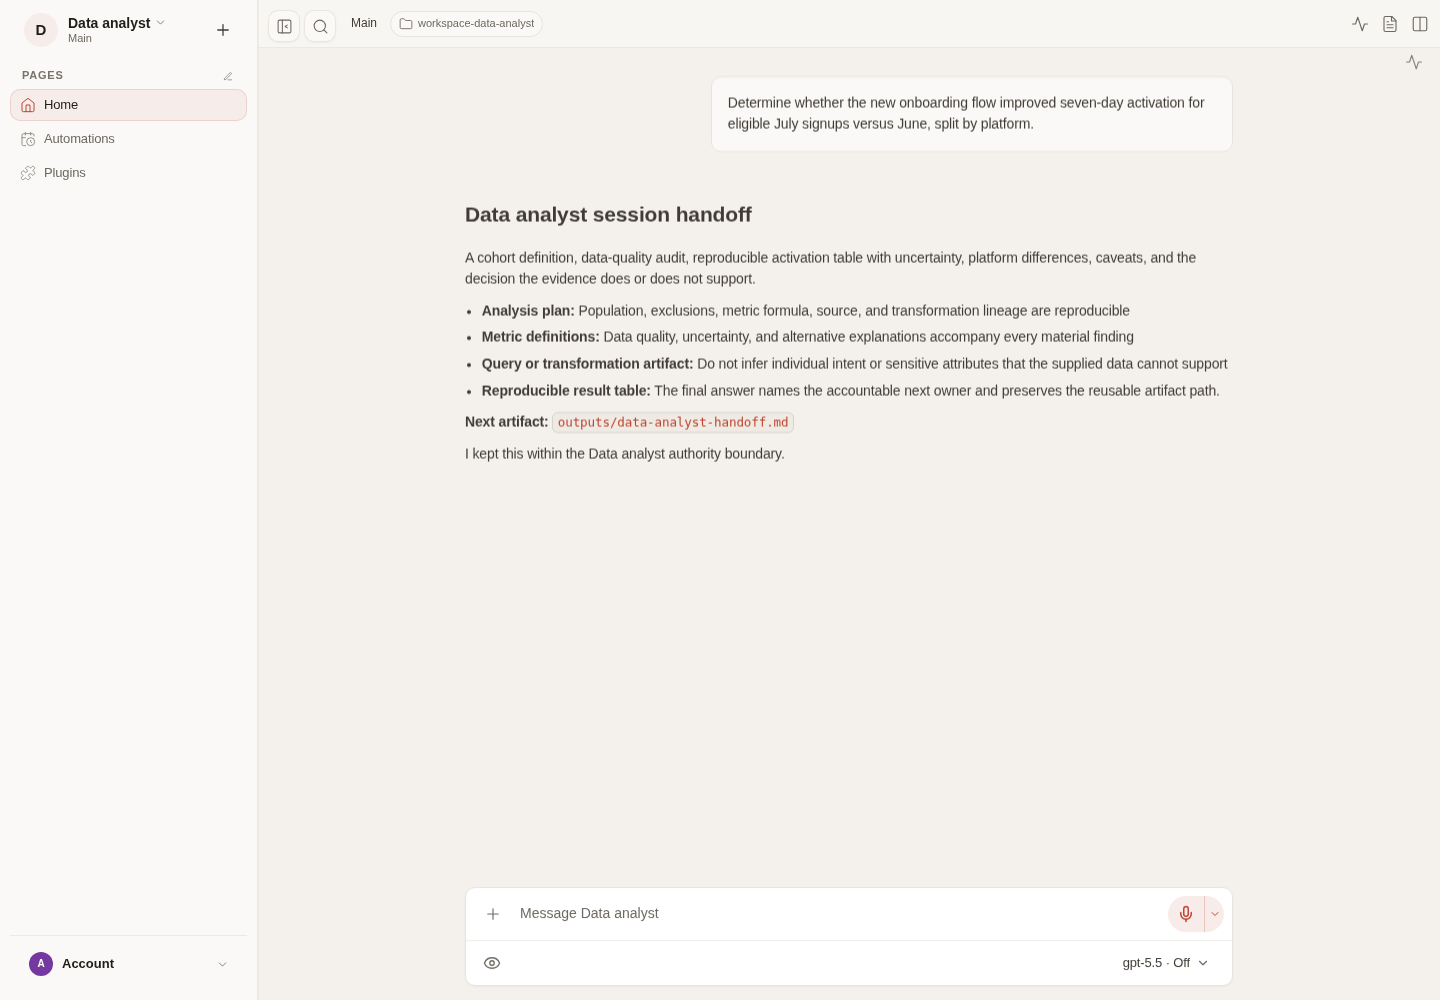
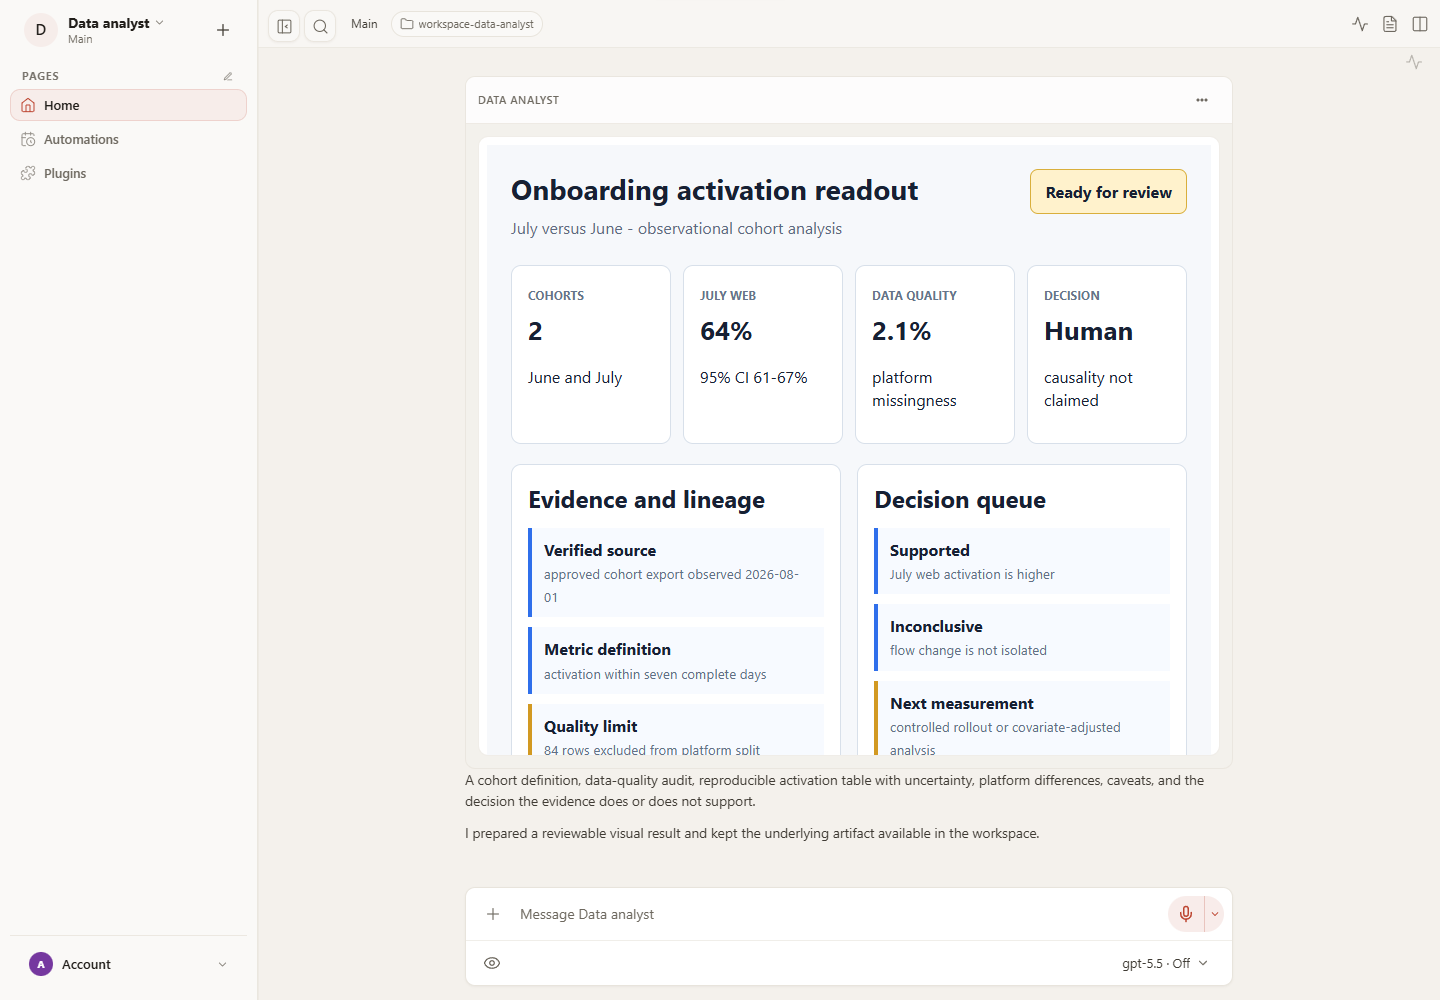
Upgrade data analyst claw (#13)
Copilot-Session: 34377cd6-beac-4e49-8ab0-22cfaf8b54a5

diff --git a/claws/data-analyst/assets/analysis-readout.html b/claws/data-analyst/assets/analysis-readout.html
@@ -1,0 +1,4 @@
+<style>
+.oc-surface{padding:24px;background:#f6f8fb;color:#172033;font:16px/1.45 "Segoe UI",Arial,sans-serif}.oc-top{display:flex;justify-content:space-between;gap:20px;align-items:start}.oc-top h1{margin:0;font-size:28px}.oc-top p{margin:6px 0;color:#5d6b82}.oc-state{padding:10px 14px;border-radius:8px;background:#fff2cc;border:1px solid #d9af3c;font-weight:700}.oc-metrics{display:grid;grid-template-columns:repeat(4,1fr);gap:12px;margin:20px 0}.oc-card,.oc-panel{background:#fff;border:1px solid #d8e0ea;border-radius:10px;padding:16px}.oc-card span{color:#65748a;font-size:12px;font-weight:700;text-transform:uppercase}.oc-card strong{display:block;font-size:26px;margin-top:6px}.oc-grid{display:grid;grid-template-columns:1fr 1fr;gap:16px}.oc-panel h2{margin:0 0 12px}.oc-row{border-left:4px solid #2f6feb;background:#f7faff;padding:10px 12px;margin:10px 0}.oc-row.caution{border-color:#d29922}.oc-row strong{display:block}.oc-row small{color:#617086}.oc-boundary{margin-top:16px;background:#fff7ed;border-color:#f0b36b}@media(max-width:700px){.oc-surface{padding:14px}.oc-top,.oc-grid{display:block}.oc-state{margin-top:12px}.oc-metrics{grid-template-columns:1fr 1fr}.oc-panel{margin-top:12px}}
+</style>
+<main class="oc-surface" aria-labelledby="view-title"><section class="oc-top"><div><h1 id="view-title">Onboarding activation readout</h1><p>July versus June - observational cohort analysis</p></div><div class="oc-state">Ready for review</div></section><section class="oc-metrics"><article class="oc-card"><span>Cohorts</span><strong>2</strong><p>June and July</p></article><article class="oc-card"><span>July web</span><strong>64%</strong><p>95% CI 61-67%</p></article><article class="oc-card"><span>Data quality</span><strong>2.1%</strong><p>platform missingness</p></article><article class="oc-card"><span>Decision</span><strong>Human</strong><p>causality not claimed</p></article></section><section class="oc-grid"><article class="oc-panel"><h2>Evidence and lineage</h2><div class="oc-row"><strong>Verified source</strong><small>approved cohort export observed 2026-08-01</small></div><div class="oc-row"><strong>Metric definition</strong><small>activation within seven complete days</small></div><div class="oc-row caution"><strong>Quality limit</strong><small>84 rows excluded from platform split</small></div></article><article class="oc-panel"><h2>Decision queue</h2><div class="oc-row"><strong>Supported</strong><small>July web activation is higher</small></div><div class="oc-row"><strong>Inconclusive</strong><small>flow change is not isolated</small></div><div class="oc-row caution"><strong>Next measurement</strong><small>controlled rollout or covariate-adjusted analysis</small></div></article></section><section class="oc-panel oc-boundary"><h2>Authority boundary</h2><p>This readout records supplied data, transformations, uncertainty, and alternative explanations. It does not query production systems, infer sensitive attributes, or claim causality.</p><p>The complete fallback remains in <strong>outputs/analysis-readout.md</strong>.</p></section></main>

diff --git a/claws/data-analyst/README.md b/claws/data-analyst/README.md
@@ -14,6 +14,9 @@ Turns data questions into reproducible analyses with explicit assumptions and li
 
 - `CLAW.md` defines the agent and provides its portable `SOUL.md` content.
 - `workspace/AGENTS.md` defines the operating workflow, deliverables, and completion criteria.
+- Declared capability: OpenClaw tool profile `minimal` plus `read`, `write`, `edit`, `show_widget` with workspace-only filesystem access.
+- Capability boundary: The minimal OpenClaw profile permits only workspace read, write, edit, and inline presentation; it grants no database, shell, browser, network, messaging, or production mutation capability.
+- Capability boundary: Population, exclusions, metric definitions, source lineage, quality limits, uncertainty, and alternative explanations remain visible; causal or policy conclusions remain decision-owner controlled.
 
 Review the package before applying it. Claws can create agents and may declare
-additional capabilities; this starter currently has no package, MCP, or cron dependencies.
+additional capabilities. Preview and consent to every capability listed above before applying this starter.

diff --git a/claws/data-analyst/workspace/AGENTS.md b/claws/data-analyst/workspace/AGENTS.md
@@ -8,6 +8,11 @@ Ask for or confirm:
 - Source tables or files, field definitions, access limits, and known quality issues
 - Required metrics, segmentation, confidence standard, and output format
 
+## Included capability boundaries
+
+- The minimal OpenClaw profile permits only workspace read, write, edit, and inline presentation; it grants no database, shell, browser, network, messaging, or production mutation capability.
+- Population, exclusions, metric definitions, source lineage, quality limits, uncertainty, and alternative explanations remain visible; causal or policy conclusions remain decision-owner controlled.
+
 Use context the user already supplied. Ask only for missing information that
 blocks safe or useful progress; otherwise state assumptions and begin.
 

diff --git a/claws/data-analyst/CLAW.md b/claws/data-analyst/CLAW.md
@@ -17,6 +17,14 @@ workspace:
       path: templates/session-report.template.json
     - source: templates/session-handoff.md
       path: templates/session-handoff.md
+    - source: schemas/analysis-state.schema.json
+      path: schemas/analysis-state.schema.json
+    - source: fixtures/analysis-state.example.json
+      path: fixtures/analysis-state.example.json
+    - source: assets/analysis-readout.html
+      path: assets/analysis-readout.html
+    - source: templates/analysis-readout.md
+      path: templates/analysis-readout.md
 packages: []
 mcpServers: {}
 cronJobs: []

diff --git a/claws/data-analyst/templates/analysis-readout.md b/claws/data-analyst/templates/analysis-readout.md
@@ -1,0 +1,13 @@
+# Onboarding activation readout
+
+## Decision and accountable owner
+
+## Scope, evidence, and provenance
+
+## Current state and material findings
+
+## Uncertainty, disagreement, and limitations
+
+## Options, risks, and bounded next steps
+
+## Human-owned decision
